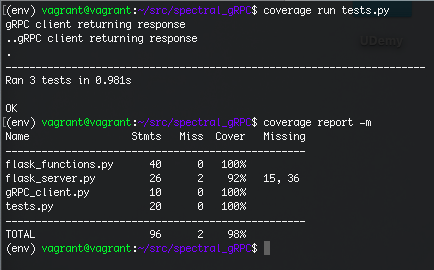
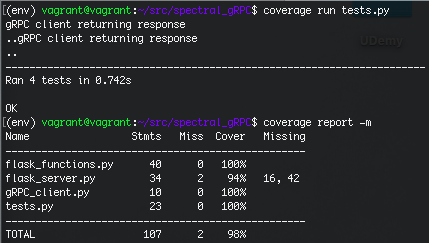
image uploading, but caching"

diff --git a/templates/meterusage.html b/templates/meterusage.html
@@ -2,13 +2,21 @@
 <html>
     <head>
         <title>Meter Usage</title>
+        {% with messages = get_flashed_messages() %}
+          {% if messages %}
+            <ul class=flashes>
+            {% for message in messages %}
+              <li>{{ message }}</li>
+            {% endfor %}
+            </ul>
+          {% endif %}
+        {% endwith %}
         <script src="http://ajax.googleapis.com/ajax/libs/jquery/1.9.1/jquery.min.js"></script>
-
     </head>
     <body>
+        <h1>Meter Usage Values</h1>
+        <p>Select a start and end date between January 1st 2019 and January 31st 2019 </p><br>
         <form id='dates' action="/get-data" method="post">
-            <h1>Get Meter Usage Values </h1><br>
-            <h2>Select a start and end date between January 1st 2019 and January 31st 2019 </h2><br>
             Start:
             <input type="date" name="start_date"><br>
             End:
@@ -16,8 +24,8 @@
             <input type="submit">
         </form>
         {% if img_url %}
-            <h1>Output Graph</h1>
+            <h1>Meter Usage Data</h1>
+            <img src="../static/{{img_url}}" alt="Line Plot"/>
         {% endif %}
-        <img src={{img_url}}>
     </body>
 </html>

diff --git a/flask_functions.py b/flask_functions.py
@@ -2,6 +2,7 @@ from ast import literal_eval
 from datetime import datetime
 import pandas as pd
 import matplotlib.pyplot as plt
+from flask_server import *
 
 response_str = "{'2019-01-01': [{'time': '00:15:00', 'value': '55.09'}, {'time': '00:30:00', 'value': '54.64'}, {'time': '00:45:00', 'value': '55.18'}, {'time': '01:00:00', 'value': '56.03'}, {'time': '01:15:00', 'value': '55.77'}, {'time': '01:30:00', 'value': '55.45'}, {'time': '01:45:00', 'value': '55.74'}, {'time': '02:00:00', 'value': '55.8'}, {'time': '02:15:00', 'value': '55.62'}, {'time': '02:30:00', 'value': '55.45'}, {'time': '02:45:00', 'value': '55.52'}, {'time': '03:00:00', 'value': '56.0'}, {'time': '03:15:00', 'value': '55.88'}, {'time': '03:30:00', 'value': '59.57'}, {'time': '03:45:00', 'value': '62.9'}, {'time': '04:00:00', 'value': '62.54'}, {'time': '04:15:00', 'value': '62.18'}, {'time': '04:30:00', 'value': '62.86'}, {'time': '04:45:00', 'value': '62.73'}, {'time': '05:00:00', 'value': '62.84'}, {'time': '05:15:00', 'value': '63.52'}, {'time': '05:30:00', 'value': '78.1'}, {'time': '05:45:00', 'value': '108.79'}, {'time': '06:00:00', 'value': '111.19'}, {'time': '06:15:00', 'value': '118.67'}, {'time': '06:30:00', 'value': '135.37'}, {'time': '06:45:00', 'value': '142.55'}, {'time': '07:00:00', 'value': '145.97'}, {'time': '07:15:00', 'value': '141.31'}, {'time': '07:30:00', 'value': '133.58'}, {'time': '07:45:00', 'value': '131.19'}, {'time': '08:00:00', 'value': '133.22'}, {'time': '08:15:00', 'value': '135.18'}, {'time': '08:30:00', 'value': '134.71'}, {'time': '08:45:00', 'value': '134.07'}, {'time': '09:00:00', 'value': '134.11'}, {'time': '09:15:00', 'value': '137.63'}, {'time': '09:30:00', 'value': '134.85'}, {'time': '09:45:00', 'value': '137.01'}, {'time': '10:00:00', 'value': '134.23'}, {'time': '10:15:00', 'value': '135.59'}, {'time': '10:30:00', 'value': '136.59'}, {'time': '10:45:00', 'value': '134.23'}, {'time': '11:00:00', 'value': '134.19'}, {'time': '11:15:00', 'value': '137.59'}, {'time': '11:30:00', 'value': '137.03'}, {'time': '11:45:00', 'value': '137.12'}, {'time': '12:00:00', 'value': '135.45'}, {'time': '12:15:00', 'value': '132.78'}, {'time': '12:30:00', 'value': '134.73'}, {'time': '12:45:00', 'value': '135.4'}, {'time': '13:00:00', 'value': '135.3'}, {'time': '13:15:00', 'value': '132.93'}, {'time': '13:30:00', 'value': '133.68'}, {'time': '13:45:00', 'value': '135.07'}, {'time': '14:00:00', 'value': '132.15'}, {'time': '14:15:00', 'value': '131.06'}, {'time': '14:30:00', 'value': '134.0'}, {'time': '14:45:00', 'value': '132.56'}, {'time': '15:00:00', 'value': '131.19'}, {'time': '15:15:00', 'value': '130.33'}, {'time': '15:30:00', 'value': '130.77'}, {'time': '15:45:00', 'value': '131.64'}, {'time': '16:00:00', 'value': '135.8'}, {'time': '16:15:00', 'value': '134.58'}, {'time': '16:30:00', 'value': '131.9'}, {'time': '16:45:00', 'value': '130.41'}, {'time': '17:00:00', 'value': '133.33'}, {'time': '17:15:00', 'value': '138.18'}, {'time': '17:30:00', 'value': '129.98'}, {'time': '17:45:00', 'value': '116.3'}, {'time': '18:00:00', 'value': '108.53'}, {'time': '18:15:00', 'value': '107.82'}, {'time': '18:30:00', 'value': '107.84'}, {'time': '18:45:00', 'value': '106.18'}, {'time': '19:00:00', 'value': '106.75'}, {'time': '19:15:00', 'value': '108.4'}, {'time': '19:30:00', 'value': '105.72'}, {'time': '19:45:00', 'value': '105.95'}, {'time': '20:00:00', 'value': '93.74'}, {'time': '20:15:00', 'value': '87.41'}, {'time': '20:30:00', 'value': '87.36'}, {'time': '20:45:00', 'value': '94.94'}, {'time': '21:00:00', 'value': '132.83'}, {'time': '21:15:00', 'value': '110.53'}, {'time': '21:30:00', 'value': '84.24'}, {'time': '21:45:00', 'value': '80.86'}, {'time': '22:00:00', 'value': '70.35'}, {'time': '22:15:00', 'value': '59.63'}, {'time': '22:30:00', 'value': '55.18'}, {'time': '22:45:00', 'value': '54.47'}, {'time': '23:00:00', 'value': '55.08'}, {'time': '23:15:00', 'value': '55.11'}, {'time': '23:30:00', 'value': '55.19'}, {'time': '23:45:00', 'value': '55.56'}], '2019-01-02': [{'time': '00:00:00', 'value': '55.87'}, {'time': '00:15:00', 'value': '55.67'}, {'time': '00:30:00', 'value': '55.43'}, {'time': '00:45:00', 'value': '56.03'}, {'time': '01:00:00', 'value': '56.63'}, {'time': '01:15:00', 'value': '57.51'}, {'time': '01:30:00', 'value': '57.68'}, {'time': '01:45:00', 'value': '57.91'}, {'time': '02:00:00', 'value': '57.71'}, {'time': '02:15:00', 'value': '58.32'}, {'time': '02:30:00', 'value': '58.37'}, {'time': '02:45:00', 'value': '58.27'}, {'time': '03:00:00', 'value': '58.68'}, {'time': '03:15:00', 'value': '58.2'}, {'time': '03:30:00', 'value': '63.06'}, {'time': '03:45:00', 'value': '67.94'}, {'time': '04:00:00', 'value': '68.69'}, {'time': '04:15:00', 'value': '67.62'}, {'time': '04:30:00', 'value': '67.4'}, {'time': '04:45:00', 'value': '68.45'}, {'time': '05:00:00', 'value': '73.29'}, {'time': '05:15:00', 'value': '78.36'}, {'time': '05:30:00', 'value': '102.68'}, {'time': '05:45:00', 'value': '162.75'}, {'time': '06:00:00', 'value': '164.7'}, {'time': '06:15:00', 'value': '151.26'}, {'time': '06:30:00', 'value': '156.94'}, {'time': '06:45:00', 'value': '173.5'}, {'time': '07:00:00', 'value': '180.35'}, {'time': '07:15:00', 'value': '182.95'}, {'time': '07:30:00', 'value': '199.31'}, {'time': '07:45:00', 'value': '221.18'}, {'time': '08:00:00', 'value': '233.64'}, {'time': '08:15:00', 'value': '239.33'}, {'time': '08:30:00', 'value': '252.93'}, {'time': '08:45:00', 'value': '260.4'}, {'time': '09:00:00', 'value': '262.83'}, {'time': '09:15:00', 'value': '261.67'}, {'time': '09:30:00', 'value': '263.98'}, {'time': '09:45:00', 'value': '263.55'}, {'time': '10:00:00', 'value': '261.75'}, {'time': '10:15:00', 'value': '269.27'}, {'time': '10:30:00', 'value': '270.87'}, {'time': '10:45:00', 'value': '268.86'}, {'time': '11:00:00', 'value': '264.86'}, {'time': '11:15:00', 'value': '261.57'}, {'time': '11:30:00', 'value': '259.88'}, {'time': '11:45:00', 'value': '254.46'}, {'time': '12:00:00', 'value': '259.45'}, {'time': '12:15:00', 'value': '262.77'}, {'time': '12:30:00', 'value': '258.37'}, {'time': '12:45:00', 'value': '260.17'}, {'time': '13:00:00', 'value': '258.99'}, {'time': '13:15:00', 'value': '255.46'}, {'time': '13:30:00', 'value': '253.93'}, {'time': '13:45:00', 'value': '252.2'}, {'time': '14:00:00', 'value': '246.99'}, {'time': '14:15:00', 'value': '247.32'}, {'time': '14:30:00', 'value': '248.06'}, {'time': '14:45:00', 'value': '243.94'}, {'time': '15:00:00', 'value': '245.46'}, {'time': '15:15:00', 'value': '246.22'}, {'time': '15:30:00', 'value': '241.72'}, {'time': '15:45:00', 'value': '239.55'}, {'time': '16:00:00', 'value': '240.96'}, {'time': '16:15:00', 'value': '238.41'}, {'time': '16:30:00', 'value': '228.85'}, {'time': '16:45:00', 'value': '227.15'}, {'time': '17:00:00', 'value': '232.01'}, {'time': '17:15:00', 'value': '227.23'}, {'time': '17:30:00', 'value': '206.15'}, {'time': '17:45:00', 'value': '179.32'}, {'time': '18:00:00', 'value': '155.34'}, {'time': '18:15:00', 'value': '138.3'}, {'time': '18:30:00', 'value': '131.47'}, {'time': '18:45:00', 'value': '136.15'}, {'time': '19:00:00', 'value': '178.71'}, {'time': '19:15:00', 'value': '161.46'}, {'time': '19:30:00', 'value': '133.63'}, {'time': '19:45:00', 'value': '126.96'}, {'time': '20:00:00', 'value': '123.07'}, {'time': '20:15:00', 'value': '121.82'}, {'time': '20:30:00', 'value': '144.74'}, {'time': '20:45:00', 'value': '164.83'}, {'time': '21:00:00', 'value': '133.33'}, {'time': '21:15:00', 'value': '114.83'}, {'time': '21:30:00', 'value': '114.96'}, {'time': '21:45:00', 'value': '104.22'}, {'time': '22:00:00', 'value': '73.33'}, {'time': '22:15:00', 'value': '54.19'}, {'time': '22:30:00', 'value': '50.14'}, {'time': '22:45:00', 'value': '49.76'}, {'time': '23:00:00', 'value': '49.61'}, {'time': '23:15:00', 'value': '47.23'}, {'time': '23:30:00', 'value': '46.0'}, {'time': '23:45:00', 'value': '45.97'}]}"
 
@@ -46,14 +47,17 @@ def create_df(response_str):
     return dfs[0]
 
 def make_plot(response_str):
+    # get merged dataframe
     df = create_df(response_str)
+    # create plot
     fig, ax = plt.subplots()
     df.plot(x='time', ax=ax, legend=True)
     ax.set_title("Meter Usage Over Time")
     ax.xaxis.set_ticks(['00:00', '03:00', '06:00', '09:00', '12:00', '15:00', '18:00', '21:00'])
     ax.xaxis.set_label_text("Hour of the Day")
     ax.yaxis.set_label_text("Meter Usage")
-    fig.savefig('my_plot.png')
+    # save plot
+    fig.savefig('static/my_plot.png')
     return fig
 
 # print(make_plot(response_str))

diff --git a/flask_server.py b/flask_server.py
@@ -1,4 +1,5 @@
-from flask import Flask, jsonify, request, render_template, redirect, session
+from flask import Flask, flash, jsonify, request, render_template, redirect, session
+from datetime import datetime
 import requests
 import flask_functions
 import gRPC_client
@@ -10,26 +11,34 @@ app.secret_key = "SECRET"
 def homepage():
     try:
         if session['image_created']:
-            img_url = "http://my_plot.png"
+            img_url = "my_plot.png"
         else:
             img_url = ''
     except KeyError:
         img_url = ''
     session['image_created'] = False
+    print('img_url', img_url)
     return render_template('meterusage.html', img_url=img_url)
 
 @app.route('/get-data', methods=['POST'])
 def get_data_from_grpc():
     start_date = request.form.get('start_date')
     end_date = request.form.get('end_date')
+    try:
+        datetime.strptime(start_date, '%Y-%m-%d')
+        datetime.strptime(end_date, '%Y-%m-%d')
+    except ValueError:
+        flash('Invalid date range')
+        return redirect('/'), 404
     response = gRPC_client.create_gRPC_request(start_date, end_date)
     if not response:
+        flash('No data for this time')
         return redirect('/'), 404
     else:
         flask_functions.make_plot(response)
+        # session['img_url'] = image_path
         session['image_created'] = True
         return redirect('/')
-
 
 if __name__ == "__main__":
     app.run(debug=True, host="0.0.0.0")

diff --git a/tests.py b/tests.py
@@ -29,5 +29,11 @@ class TestAPI(unittest.TestCase):
                                 follow_redirects=True)
         self.assertTrue(response.status_code == 404)
 
+    def test_invalid_input(self):
+        response = self.client.post("/get-data",
+                                data={"start_date": "YY/MM/DD", "end_date": "YY/MM/DD"},
+                                follow_redirects=True)
+        self.assertTrue(response.status_code == 404)
+
 if __name__ == "__main__":
     unittest.main()

diff --git a/README.md b/README.md
@@ -41,9 +41,9 @@ Fill out the form for the dates you want, press submit, and voila!
 
 An example of the graph returned is as follows:
 
-![meter usage graph](my_plot.png)
+![meter usage graph](example_plot.png)
 
-If you fill out the form with a date range for which we have no data, the flask server will redirect back to the homepage and give a a 404 error. If part of the date range specified is in the database, the graph will show the data for those specific days only
+If you fill out the form with a date range for which we have no data or with invalid dates, the flask server will redirect back to the homepage and give a 404 error. If part of the date range specified is in the database, the graph will show the data for those specific days only
 
 ## Testing
 I used the python unittest module to test my Flask routes. The following command on your terminal will run the tests in python (make sure your gRPC server is running in the background)
@@ -57,9 +57,9 @@ I also used the python coverage module to check the coverage of my tests on the 
 coverage report -m
 ```
 
-The app is currently at 98% total coverage
+The app is currently at 96% total coverage
 
 ![test coverage](test_coverage.png)
 
 ## Resources and Blockers
-I used the following [link](https://www.semantics3.com/blog/a-simplified-guide-to-grpc-in-python-6c4e25f0c506/) to set up my basic gRPC server, and modified the functions as needed from there. My main blocker here was formatting my gRPC response to a dictionary or list. I had to settle with returning a string of the meter usage values by date and time, which I then convert back into a dictionary of datetime objects on my flask server.
+I used the following [link](https://www.semantics3.com/blog/a-simplified-guide-to-grpc-in-python-6c4e25f0c506/) to set up my basic gRPC server, and modified the functions as needed from there. My main blocker here was formatting my gRPC response to be a dictionary or a list. I had to settle with returning a string of the meter usage values by date and time, which I then convert back into a dictionary of datetime objects on my flask server to use to create the line graph.
